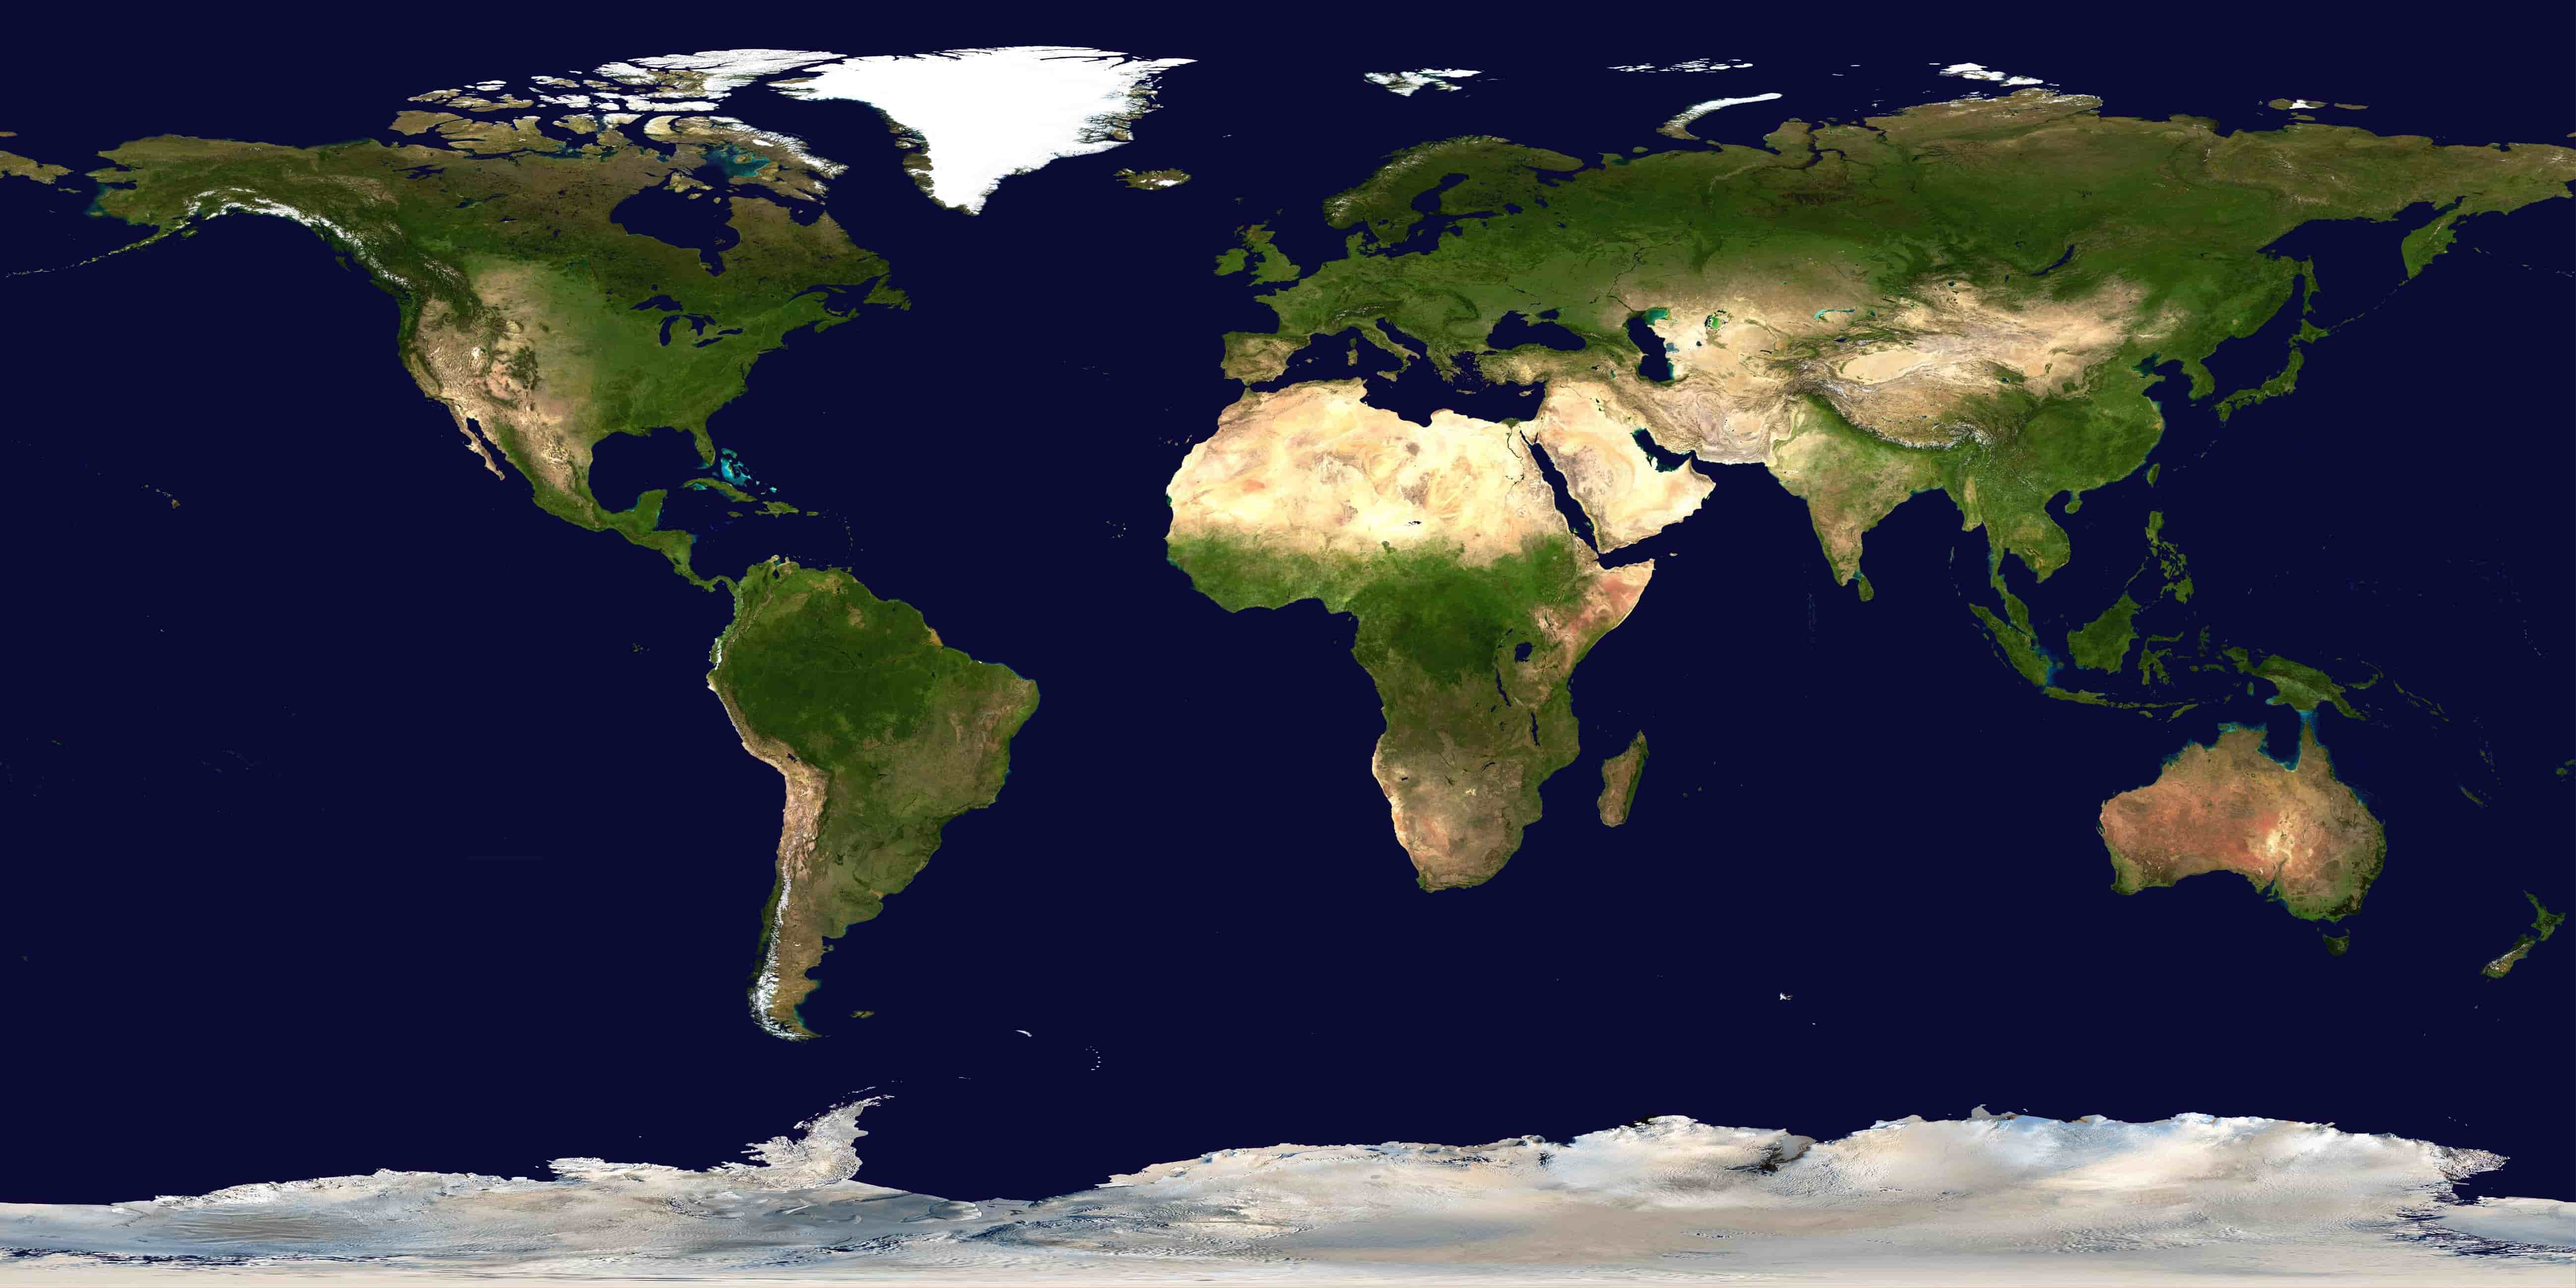
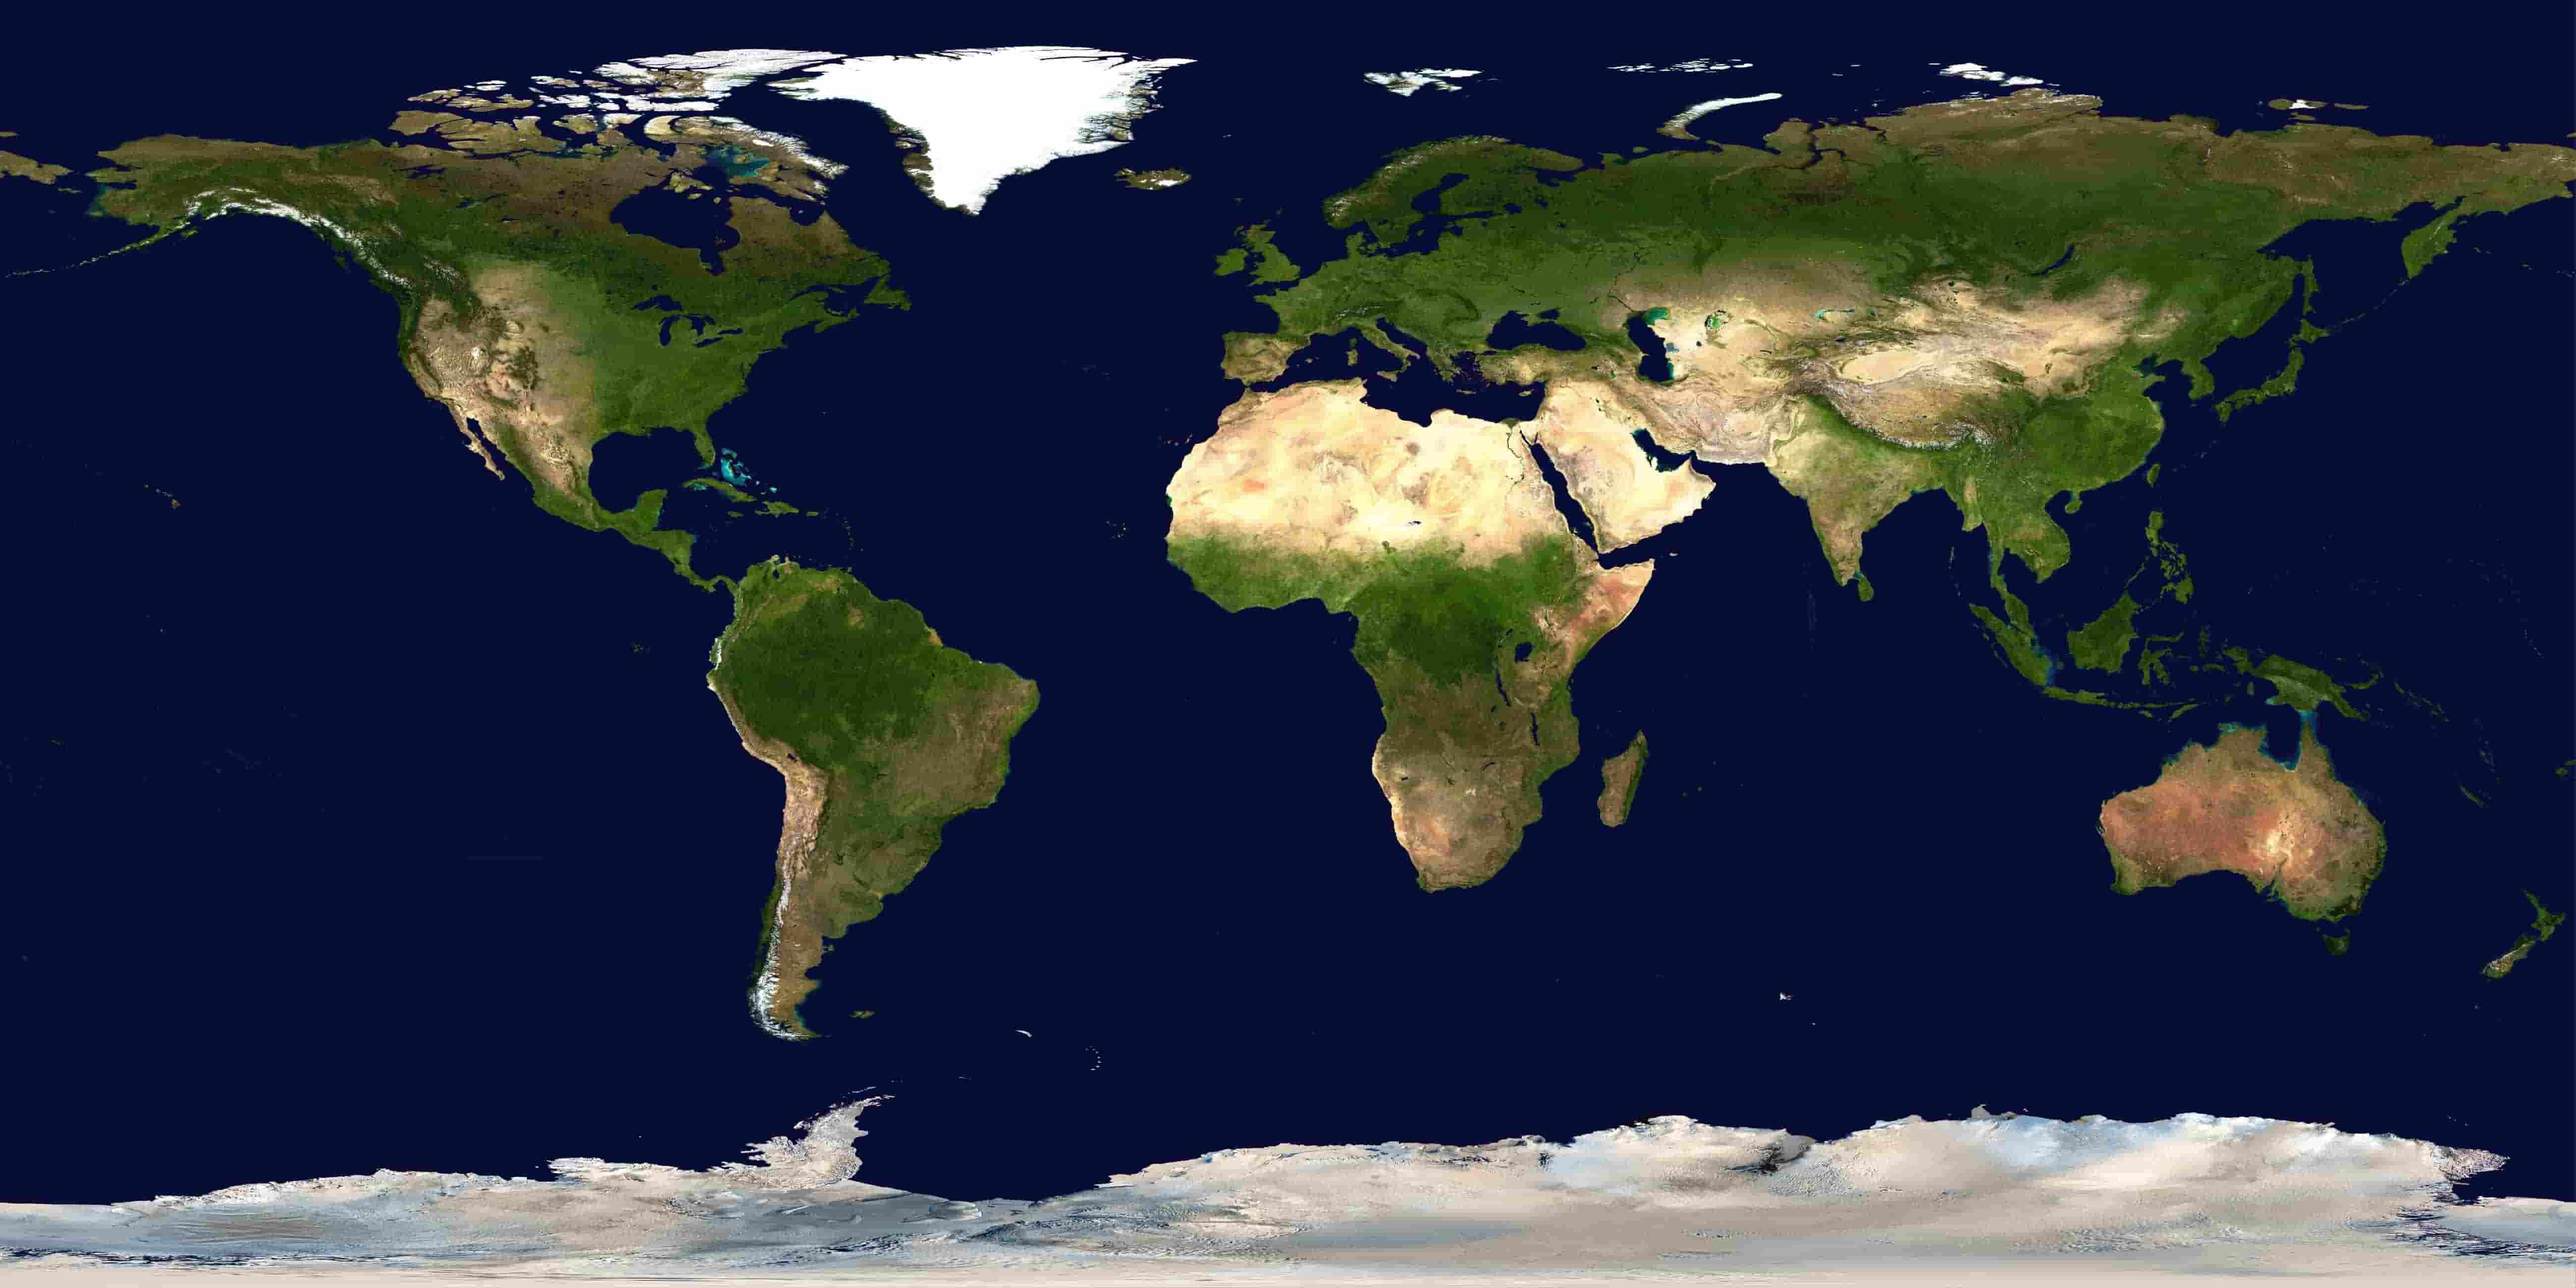
add preloader

diff --git a/src/styles.css b/src/styles.css
@@ -6,6 +6,17 @@ margin: 0;
 text-align: center;
 }
 
+.loader {
+  padding-top: 300px;
+  height: 100vh;
+  background: #00bfff;
+  text-align: center;
+}
+
+.loader h1 {
+  font-size: 50px;
+}
+
 
 #wrapStart {
   padding-top: 300px;
@@ -544,7 +555,7 @@ input {
   top: 0;
   right: -100%;
   margin: 0 auto;
-  background:url(../assets/images/funnyWmap.png) 50% 50%/cover rgba( 0, 0, 0, 0.8);
+  background:url(../assets/images/funnyWmap.jpg) 50% 50%/cover rgba( 0, 0, 0, 0.8);
   background-blend-mode: multiply;
   padding-top: 25px;
 }

diff --git a/src/index.jsx b/src/index.jsx
@@ -78,7 +78,22 @@ class Start extends React.Component {
 		localStorage.setItem('saveGame', local)
 }
 
+	componentDidMount(){
+		this.setState({
+			display:{
+				...this.state.display,
+				wrapStart:'block'
+			}
+		})
+	}
+
 	componentWillMount(){
+		this.setState({
+			display:{
+				...this.state.display,
+				wrapStart:'none'
+			}
+		})
 		let getLocal = JSON.parse(localStorage.getItem("saveGame"))
 		if(getLocal) {
 			this.setState({

diff --git a/src/index.html b/src/index.html
@@ -22,7 +22,13 @@
 </head>
 <body>
 
-<div id="root"></div>
+<div id="root">
+
+  <div class="loader">
+    <h1>ЗАГРУЗКА...</h1>
+  </div>
+
+</div>
 
 <script type="text/javascript" src="index.jsx"></script>
 <script>
